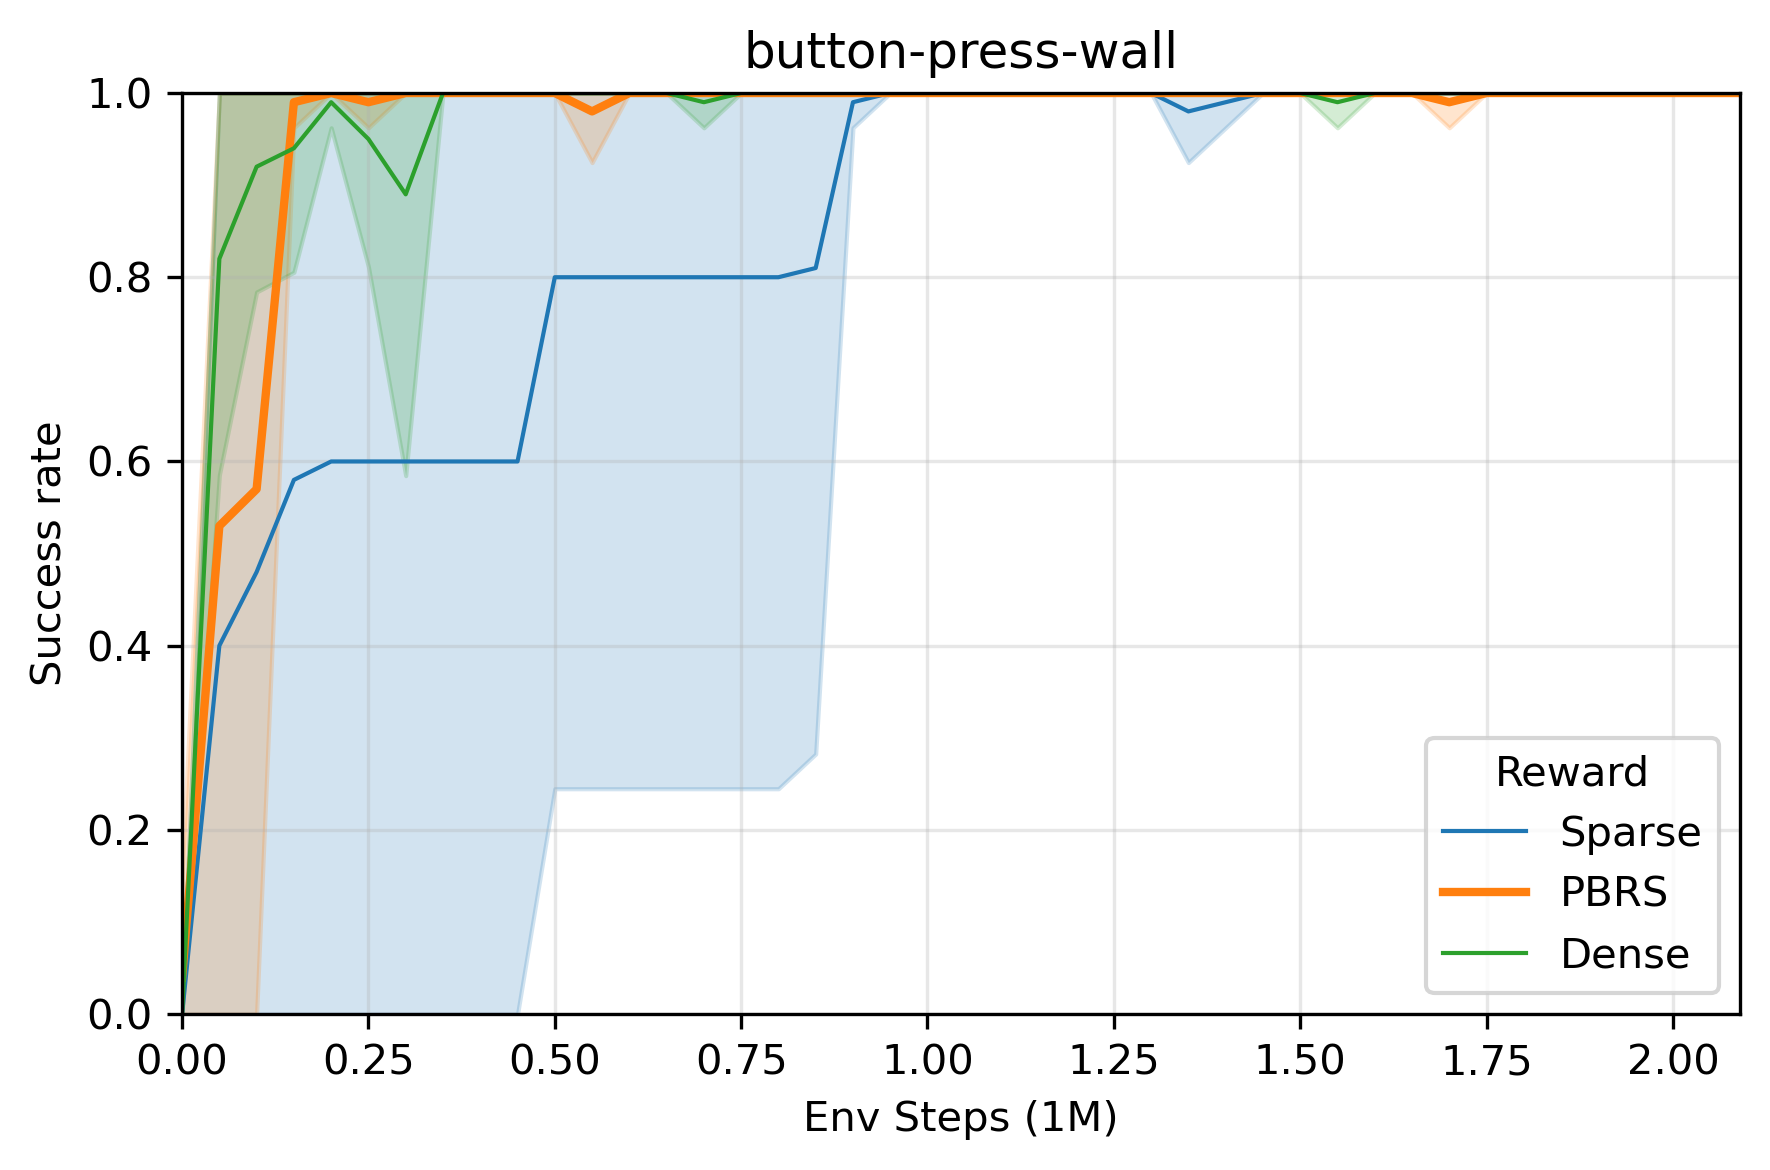
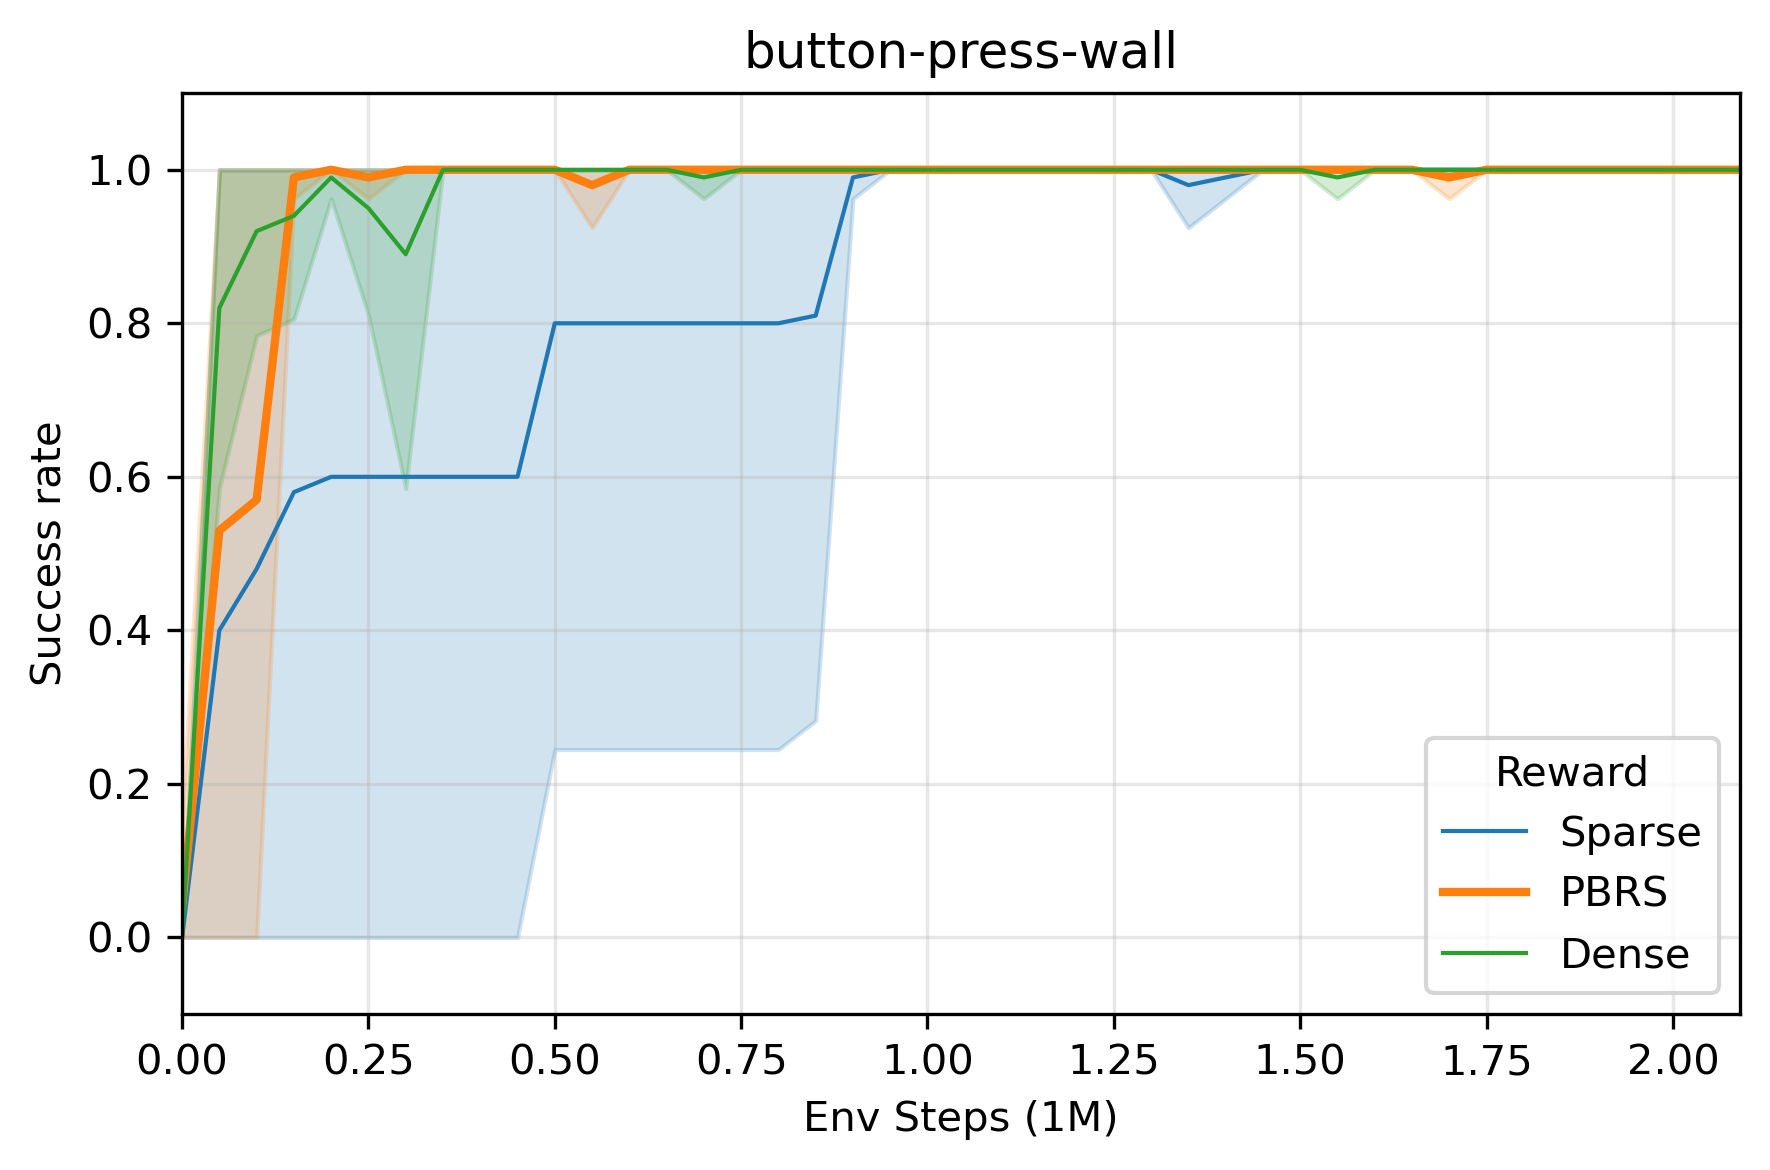
Add soccer MetaWorld evaluation plot

diff --git a/scripts/plot_metaworld_eval_success.py b/scripts/plot_metaworld_eval_success.py
@@ -47,6 +47,7 @@ DEFAULT_DOWNSAMPLE = 5
 SELECTED_TASKS: Tuple[str, ...] = (
     "button-press-wall",
     "coffee-push",
+    "soccer-meta",
 )
 
 RUN_DIRS: Dict[str, Dict[str, Tuple[str, ...]]] = {
@@ -94,6 +95,29 @@ RUN_DIRS: Dict[str, Dict[str, Tuple[str, ...]]] = {
             "2026.09.13/232913_coffee-push",
             "2026.09.14/014131_coffee-push",
             "2026.09.14/035222_coffee-push",
+        ),
+    },
+    "soccer-meta": {
+        "sparse": (
+            "2026.09.14/060506_soccer-meta",
+            "2026.09.14/081349_soccer-meta",
+            "2026.09.14/102226_soccer-meta",
+            "2026.09.14/123055_soccer-meta",
+            "2026.09.14/161917_soccer-meta",
+        ),
+        "pbrs": (
+            "2026.09.16/044953_soccer-meta",
+            "2026.09.16/080406_soccer-meta",
+            "2026.09.16/111950_soccer-meta",
+            "2026.09.16/143613_soccer-meta",
+            "2026.09.16/175150_soccer-meta",
+        ),
+        "dense": (
+            "2026.09.16/210906_soccer-meta",
+            "2026.09.17/001512_soccer-meta",
+            "2026.09.17/030933_soccer-meta",
+            "2026.09.17/060311_soccer-meta",
+            "2026.09.17/085644_soccer-meta",
         ),
     },
 }
@@ -238,7 +262,7 @@ def plot_task(task: str, downsample: int) -> Tuple[Path, int]:
     axis.set_title(task)
     axis.set_xlabel("Env Steps (1M)")
     axis.set_ylabel("Success rate")
-    axis.set_ylim(0.0, 1.0)
+    axis.set_ylim(-0.1, 1.1)
     axis.margins(x=0.0)
     axis.grid(True, alpha=0.3)
     axis.legend(title="Reward")
@@ -267,6 +291,12 @@ def parse_args(argv: Sequence[str] | None = None) -> argparse.Namespace:
             f"last point (default: {DEFAULT_DOWNSAMPLE})."
         ),
     )
+    parser.add_argument(
+        "tasks",
+        nargs="*",
+        choices=sorted(RUN_DIRS),
+        help="Optional task names to plot instead of SELECTED_TASKS.",
+    )
     args = parser.parse_args(argv)
     if args.downsample < 1:
         parser.error("--downsample must be at least 1")
@@ -276,7 +306,8 @@ def parse_args(argv: Sequence[str] | None = None) -> argparse.Namespace:
 def main(argv: Sequence[str] | None = None) -> int:
     args = parse_args(argv)
     generated = 0
-    for task in SELECTED_TASKS:
+    tasks = tuple(args.tasks) if args.tasks else SELECTED_TASKS
+    for task in tasks:
         try:
             output_path, point_count = plot_task(task, args.downsample)
         except DataError as error:
